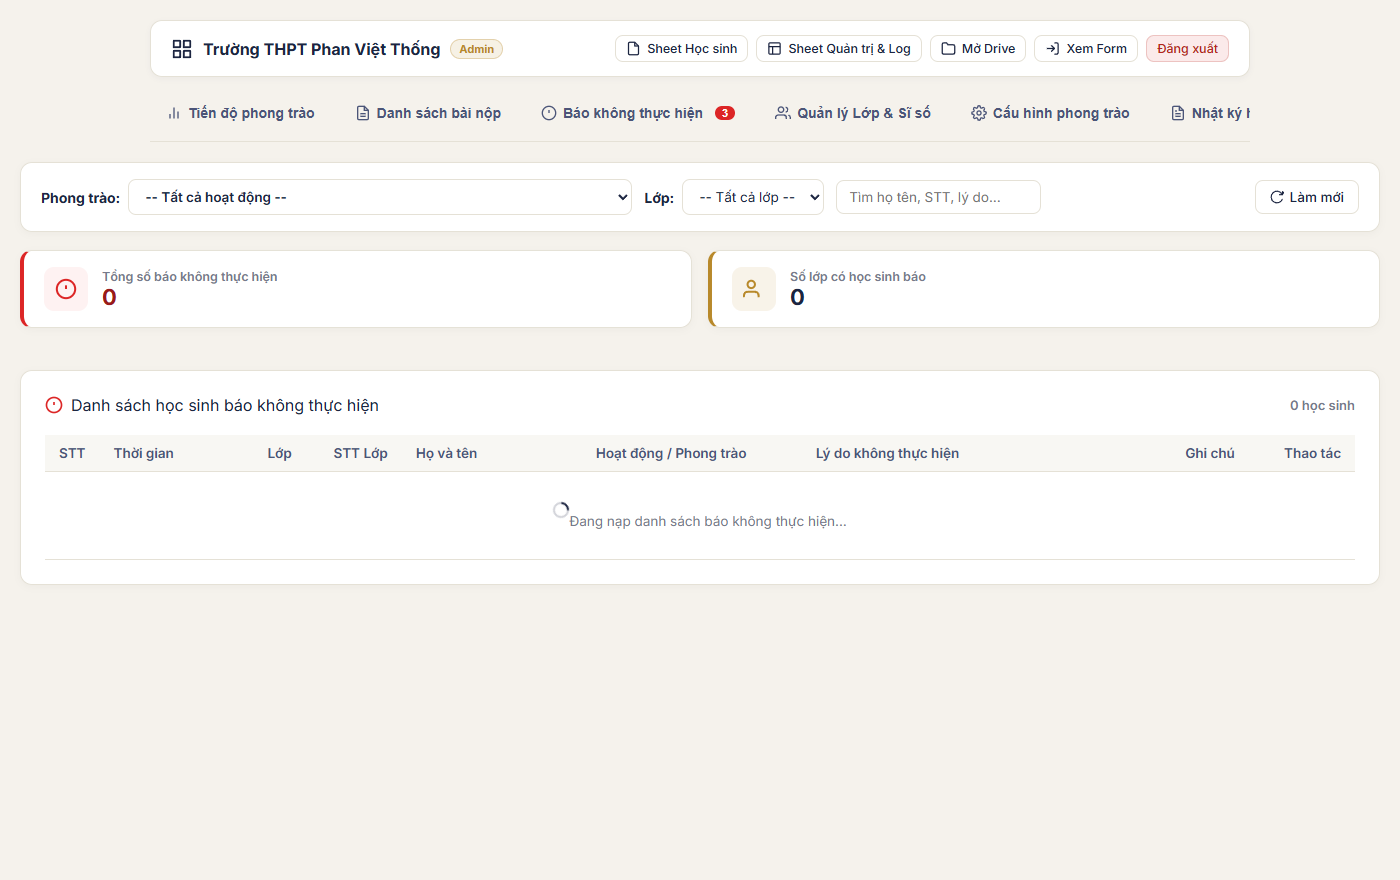
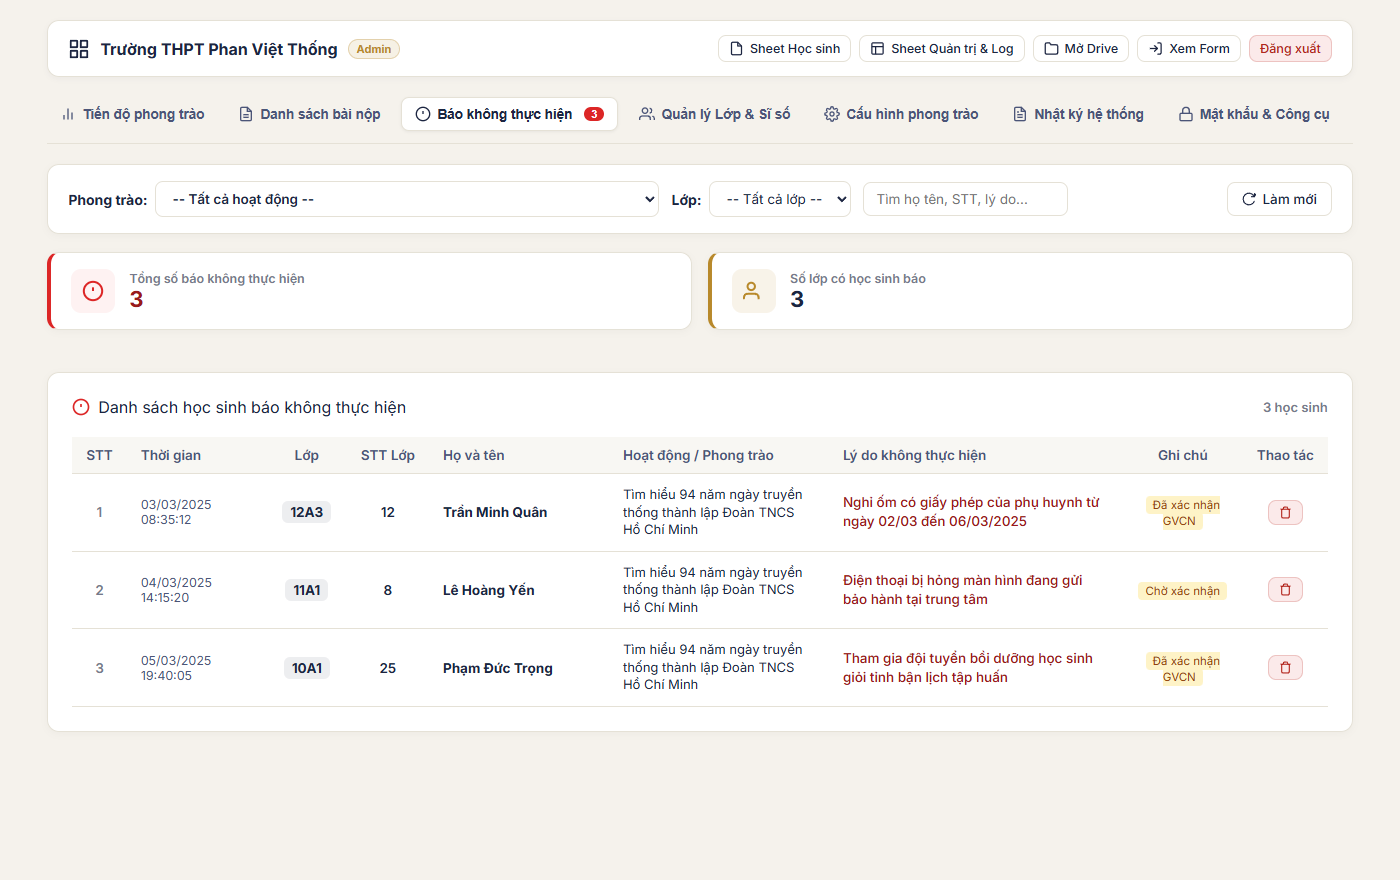
Add files via upload

diff --git a/Admin.html b/Admin.html
@@ -80,7 +80,8 @@
 
       /* ================= APP LAYOUT ================= */
       .app-wrapper {
-        max-width: 1100px;
+        max-width: 1380px;
+        width: 96%;
         margin: 0 auto;
       }
 
@@ -164,18 +165,23 @@
       /* ================= TABS ================= */
       .tabs {
         display: flex;
+        flex-wrap: wrap;
         gap: 8px;
         margin-bottom: 20px;
         border-bottom: 1px solid var(--line);
         padding-bottom: 12px;
-        overflow-x: auto;
+        scrollbar-width: none;
+        -ms-overflow-style: none;
+      }
+      .tabs::-webkit-scrollbar {
+        display: none;
       }
 
       .tab-btn {
         background: transparent;
         border: none;
-        padding: 8px 16px;
-        font-size: 14px;
+        padding: 8px 13px;
+        font-size: 13.5px;
         font-weight: 600;
         color: var(--ink-soft);
         border-radius: 8px;
@@ -964,6 +970,102 @@
         </div>
       </div>
 
+      <!-- ================= TAB: BÁO CÁO KHÔNG THỰC HIỆN ================= -->
+      <div id="nonCompletionTab" class="hidden">
+        <!-- Filter Toolbar -->
+        <div class="panel" style="padding: 16px 20px; margin-bottom: 18px;">
+          <div style="display: flex; flex-wrap: wrap; justify-content: space-between; align-items: center; gap: 14px;">
+            <div style="display: flex; align-items: center; gap: 12px; flex-wrap: wrap;">
+              <div style="display: flex; align-items: center; gap: 8px;">
+                <label for="nonCompWeekSelect" style="font-weight: 700; color: var(--navy); margin: 0; font-size: 14px;">Phong trào:</label>
+                <select id="nonCompWeekSelect" class="input-text" onchange="loadNonCompletionReports()" style="min-width: 220px; font-weight: 600;">
+                  <option value="ALL">-- Tất cả hoạt động --</option>
+                </select>
+              </div>
+
+              <div style="display: flex; align-items: center; gap: 8px;">
+                <label for="nonCompClassSelect" style="font-weight: 700; color: var(--navy); margin: 0; font-size: 14px;">Lớp:</label>
+                <select id="nonCompClassSelect" class="input-text" onchange="filterNonCompletionLocal()" style="min-width: 130px;">
+                  <option value="ALL">-- Tất cả lớp --</option>
+                </select>
+              </div>
+
+              <div style="display: flex; align-items: center; gap: 8px;">
+                <input type="text" id="nonCompSearchInput" class="input-text" placeholder="Tìm họ tên, STT, lý do..." oninput="filterNonCompletionLocal()" style="min-width: 200px;">
+              </div>
+            </div>
+
+            <div style="display: flex; align-items: center; gap: 10px;">
+              <button onclick="loadNonCompletionReports()" class="btn btn-outline" style="display: flex; align-items: center; gap: 6px;">
+                <svg width="14" height="14" viewBox="0 0 24 24" fill="none" stroke="currentColor" stroke-width="2"><path d="M21.5 2v6h-6M21.34 15.57a10 10 0 1 1-.57-8.38l5.67-5.67"/></svg>
+                Làm mới
+              </button>
+            </div>
+          </div>
+        </div>
+
+        <div id="nonCompBanner"></div>
+
+        <!-- Metric KPI Cards -->
+        <div style="display: grid; grid-template-columns: repeat(auto-fit, minmax(220px, 1fr)); gap: 16px; margin-bottom: 18px;">
+          <div class="panel" style="padding: 16px 20px; display: flex; align-items: center; gap: 14px; border-left: 4px solid #DC2626;">
+            <div style="width: 44px; height: 44px; border-radius: 10px; background: #FEF2F2; display: flex; align-items: center; justify-content: center; color: #DC2626;">
+              <svg width="22" height="22" viewBox="0 0 24 24" fill="none" stroke="currentColor" stroke-width="2.2"><circle cx="12" cy="12" r="10"/><line x1="12" y1="8" x2="12" y2="12"/><line x1="12" y1="16" x2="12.01" y2="16"/></svg>
+            </div>
+            <div>
+              <div style="font-size: 12.5px; color: var(--muted); font-weight: 600;">Tổng số báo không thực hiện</div>
+              <div id="nonCompTotalKpi" style="font-size: 22px; font-weight: 800; color: #991B1B;">0</div>
+            </div>
+          </div>
+
+          <div class="panel" style="padding: 16px 20px; display: flex; align-items: center; gap: 14px; border-left: 4px solid var(--gold);">
+            <div style="width: 44px; height: 44px; border-radius: 10px; background: rgba(184, 137, 43, 0.1); display: flex; align-items: center; justify-content: center; color: var(--gold);">
+              <svg width="22" height="22" viewBox="0 0 24 24" fill="none" stroke="currentColor" stroke-width="2.2"><path d="M17 21v-2a4 4 0 0 0-4-4H5a4 4 0 0 0-4 4v2"/><circle cx="9" cy="7" r="4"/></svg>
+            </div>
+            <div>
+              <div style="font-size: 12.5px; color: var(--muted); font-weight: 600;">Số lớp có học sinh báo</div>
+              <div id="nonCompClassesKpi" style="font-size: 22px; font-weight: 800; color: var(--navy);">0</div>
+            </div>
+          </div>
+        </div>
+
+        <!-- Non-completion Table -->
+        <div class="panel">
+          <div class="panel-header" style="display: flex; justify-content: space-between; align-items: center;">
+            <div class="panel-title" style="display: flex; align-items: center; gap: 8px;">
+              <svg width="18" height="18" viewBox="0 0 24 24" fill="none" stroke="#DC2626" stroke-width="2.2"><circle cx="12" cy="12" r="10"/><line x1="12" y1="8" x2="12" y2="12"/><line x1="12" y1="16" x2="12.01" y2="16"/></svg>
+              <span>Danh sách học sinh báo không thực hiện</span>
+            </div>
+            <span id="nonCompTableCount" style="font-size: 13px; color: var(--muted); font-weight: 600;">0 học sinh</span>
+          </div>
+
+          <div id="nonCompTableWrapper" class="table-responsive">
+            <table class="data-table">
+              <thead>
+                <tr>
+                  <th style="width: 50px; text-align: center;">STT</th>
+                  <th style="width: 140px;">Thời gian</th>
+                  <th style="width: 80px; text-align: center;">Lớp</th>
+                  <th style="width: 75px; text-align: center;">STT Lớp</th>
+                  <th style="width: 180px;">Họ và tên</th>
+                  <th style="width: 220px;">Hoạt động / Phong trào</th>
+                  <th>Lý do không thực hiện</th>
+                  <th style="width: 120px; text-align: center;">Ghi chú</th>
+                  <th style="width: 80px; text-align: center;">Thao tác</th>
+                </tr>
+              </thead>
+              <tbody id="nonCompTableBody">
+                <tr>
+                  <td colspan="9" style="text-align: center; color: var(--muted); padding: 30px;">
+                    Chưa nạp dữ liệu. Vui lòng bấm vào tab này để xem báo cáo.
+                  </td>
+                </tr>
+              </tbody>
+            </table>
+          </div>
+        </div>
+      </div>
+
       <!-- ================= TAB 3: CLASS MANAGEMENT & HEADCOUNT ================= -->
       <div id="classesTab" class="hidden">
         <!-- School Demographic Overview Cards -->
@@ -1229,102 +1331,6 @@
       </div>
     </div>
 
-    <!-- ================= TAB: BÁO CÁO KHÔNG THỰC HIỆN ================= -->
-    <div id="nonCompletionTab" class="hidden">
-      <!-- Filter Toolbar -->
-      <div class="panel" style="padding: 16px 20px; margin-bottom: 18px;">
-        <div style="display: flex; flex-wrap: wrap; justify-content: space-between; align-items: center; gap: 14px;">
-          <div style="display: flex; align-items: center; gap: 12px; flex-wrap: wrap;">
-            <div style="display: flex; align-items: center; gap: 8px;">
-              <label for="nonCompWeekSelect" style="font-weight: 700; color: var(--navy); margin: 0; font-size: 14px;">Phong trào:</label>
-              <select id="nonCompWeekSelect" class="input-text" onchange="loadNonCompletionReports()" style="min-width: 220px; font-weight: 600;">
-                <option value="ALL">-- Tất cả hoạt động --</option>
-              </select>
-            </div>
-
-            <div style="display: flex; align-items: center; gap: 8px;">
-              <label for="nonCompClassSelect" style="font-weight: 700; color: var(--navy); margin: 0; font-size: 14px;">Lớp:</label>
-              <select id="nonCompClassSelect" class="input-text" onchange="filterNonCompletionLocal()" style="min-width: 130px;">
-                <option value="ALL">-- Tất cả lớp --</option>
-              </select>
-            </div>
-
-            <div style="display: flex; align-items: center; gap: 8px;">
-              <input type="text" id="nonCompSearchInput" class="input-text" placeholder="Tìm họ tên, STT, lý do..." oninput="filterNonCompletionLocal()" style="min-width: 200px;">
-            </div>
-          </div>
-
-          <div style="display: flex; align-items: center; gap: 10px;">
-            <button onclick="loadNonCompletionReports()" class="btn btn-outline" style="display: flex; align-items: center; gap: 6px;">
-              <svg width="14" height="14" viewBox="0 0 24 24" fill="none" stroke="currentColor" stroke-width="2"><path d="M21.5 2v6h-6M21.34 15.57a10 10 0 1 1-.57-8.38l5.67-5.67"/></svg>
-              Làm mới
-            </button>
-          </div>
-        </div>
-      </div>
-
-      <div id="nonCompBanner"></div>
-
-      <!-- Metric KPI Cards -->
-      <div style="display: grid; grid-template-columns: repeat(auto-fit, minmax(220px, 1fr)); gap: 16px; margin-bottom: 18px;">
-        <div class="panel" style="padding: 16px 20px; display: flex; align-items: center; gap: 14px; border-left: 4px solid #DC2626;">
-          <div style="width: 44px; height: 44px; border-radius: 10px; background: #FEF2F2; display: flex; align-items: center; justify-content: center; color: #DC2626;">
-            <svg width="22" height="22" viewBox="0 0 24 24" fill="none" stroke="currentColor" stroke-width="2.2"><circle cx="12" cy="12" r="10"/><line x1="12" y1="8" x2="12" y2="12"/><line x1="12" y1="16" x2="12.01" y2="16"/></svg>
-          </div>
-          <div>
-            <div style="font-size: 12.5px; color: var(--muted); font-weight: 600;">Tổng số báo không thực hiện</div>
-            <div id="nonCompTotalKpi" style="font-size: 22px; font-weight: 800; color: #991B1B;">0</div>
-          </div>
-        </div>
-
-        <div class="panel" style="padding: 16px 20px; display: flex; align-items: center; gap: 14px; border-left: 4px solid var(--gold);">
-          <div style="width: 44px; height: 44px; border-radius: 10px; background: rgba(184, 137, 43, 0.1); display: flex; align-items: center; justify-content: center; color: var(--gold);">
-            <svg width="22" height="22" viewBox="0 0 24 24" fill="none" stroke="currentColor" stroke-width="2.2"><path d="M17 21v-2a4 4 0 0 0-4-4H5a4 4 0 0 0-4 4v2"/><circle cx="9" cy="7" r="4"/></svg>
-          </div>
-          <div>
-            <div style="font-size: 12.5px; color: var(--muted); font-weight: 600;">Số lớp có học sinh báo</div>
-            <div id="nonCompClassesKpi" style="font-size: 22px; font-weight: 800; color: var(--navy);">0</div>
-          </div>
-        </div>
-      </div>
-
-      <!-- Non-completion Table -->
-      <div class="panel">
-        <div class="panel-header" style="display: flex; justify-content: space-between; align-items: center;">
-          <div class="panel-title" style="display: flex; align-items: center; gap: 8px;">
-            <svg width="18" height="18" viewBox="0 0 24 24" fill="none" stroke="#DC2626" stroke-width="2.2"><circle cx="12" cy="12" r="10"/><line x1="12" y1="8" x2="12" y2="12"/><line x1="12" y1="16" x2="12.01" y2="16"/></svg>
-            <span>Danh sách học sinh báo không thực hiện</span>
-          </div>
-          <span id="nonCompTableCount" style="font-size: 13px; color: var(--muted); font-weight: 600;">0 học sinh</span>
-        </div>
-
-        <div id="nonCompTableWrapper" class="table-responsive">
-          <table class="data-table">
-            <thead>
-              <tr>
-                <th style="width: 50px; text-align: center;">STT</th>
-                <th style="width: 140px;">Thời gian</th>
-                <th style="width: 80px; text-align: center;">Lớp</th>
-                <th style="width: 75px; text-align: center;">STT Lớp</th>
-                <th style="width: 180px;">Họ và tên</th>
-                <th style="width: 220px;">Hoạt động / Phong trào</th>
-                <th>Lý do không thực hiện</th>
-                <th style="width: 120px; text-align: center;">Ghi chú</th>
-                <th style="width: 80px; text-align: center;">Thao tác</th>
-              </tr>
-            </thead>
-            <tbody id="nonCompTableBody">
-              <tr>
-                <td colspan="9" style="text-align: center; color: var(--muted); padding: 30px;">
-                  Chưa nạp dữ liệu. Vui lòng bấm vào tab này để xem báo cáo.
-                </td>
-              </tr>
-            </tbody>
-          </table>
-        </div>
-      </div>
-    </div>
-
     <!-- ================= PHOTO PREVIEW MODAL ================= -->
     <div id="imageModal" class="modal-backdrop hidden" onclick="closeImageModal()">
       <div class="modal-content preview-image-modal" onclick="event.stopPropagation()">
@@ -1534,10 +1540,13 @@
         if (activeEl) activeEl.classList.remove('hidden');
 
         var btns = document.querySelectorAll('.tab-btn');
-        btns.forEach(function(b) { b.classList.remove('active'); });
-        if (event && event.currentTarget) {
-          event.currentTarget.classList.add('active');
-        }
+        btns.forEach(function(b) {
+          b.classList.remove('active');
+          var oc = b.getAttribute('onclick') || '';
+          if (oc.indexOf("'" + tabId + "'") !== -1 || oc.indexOf('"' + tabId + '"') !== -1) {
+            b.classList.add('active');
+          }
+        });
 
         if (tabId === 'progressTab') {
           if (currentSelectedWeek) loadProgressData(currentSelectedWeek);
@@ -2889,7 +2898,7 @@
             '<td style="text-align: center; font-weight: 600;">' + escapeHtml(r.classStt || '-') + '</td>' +
             '<td style="font-weight: 700; color: var(--ink);">' + escapeHtml(r.fullName || '') + '</td>' +
             '<td style="font-size: 13px; color: var(--navy); line-height: 1.35;">' + escapeHtml(r.activityName || '') + '</td>' +
-            '<td style="font-size: 13px; color: #991B1B; line-height: 1.4; background: #FFFBFB; border-left: 2px solid #FCA5A5; padding: 8px 10px;">' + escapeHtml(r.reason || '') + '</td>' +
+            '<td style="font-size: 13.5px; color: #991B1B; line-height: 1.4; font-weight: 500;">' + escapeHtml(r.reason || '') + '</td>' +
             '<td style="text-align: center;"><span class="badge" style="background: #FEF3C7; color: #92400E; font-size: 11.5px; padding: 2px 7px; border-radius: 4px;">' + escapeHtml(r.note || 'Chờ xác nhận') + '</span></td>' +
             '<td style="text-align: center;">' +
               '<button type="button" class="btn btn-danger btn-sm" onclick="handleDeleteNonCompletionReport(' + r.rowIndex + ', \'' + escapeHtml((r.fullName || '')).replace(/'/g, "\\'") + '\')" title="Xóa báo cáo này khỏi Sheet">' +
